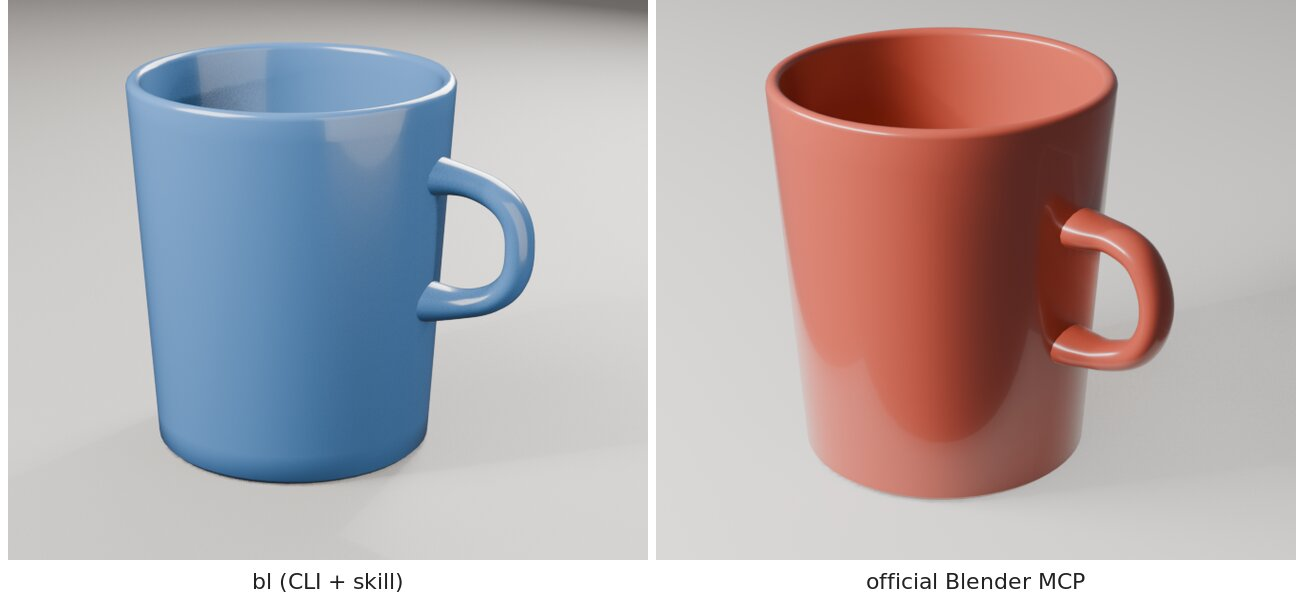
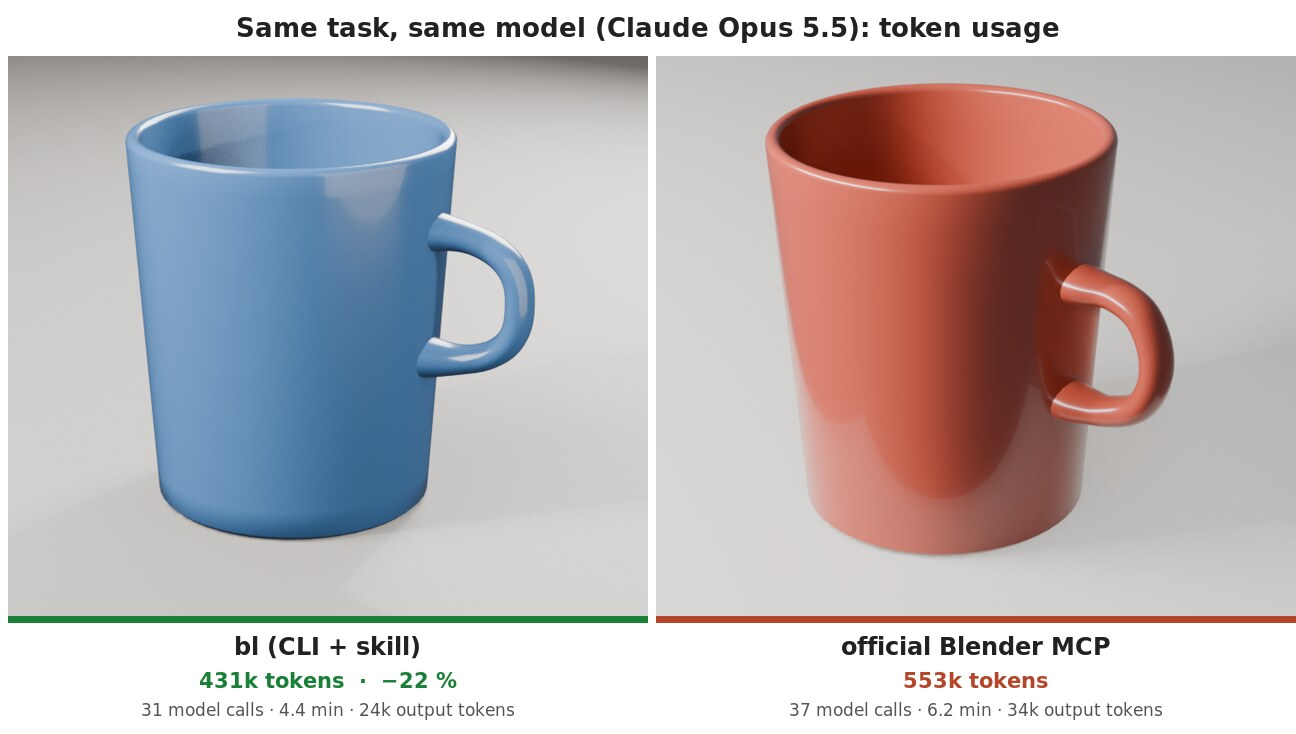
Comparison images with token and mesh-check overlays; exact qa warnings and mesh stats in the A/B write-up

diff --git a/docs/ab-test.md b/docs/ab-test.md
@@ -31,10 +31,11 @@ Each image is the agent's own final render or wireframe from its run, with the h
 | Output tokens | 41k | **24k** | 34k |
 | **Weighted tokens** | 750k | **431k** | 553k |
 | Images viewed by the agent | 23 | 15 | 11 |
-| `bl qa --profile render` | pass, 1 warning (no UVs) | **pass, 0 warnings** | pass, 3 warnings: 2 zero-length edges and 4 duplicate vertices at the boolean seam, missed by the agent's own checks |
+| `bl qa --profile render` | pass, 1 warning (no UVs) | **pass, 0 warnings** | pass, 3 warnings: no UV map, 2 zero-length edges and 4 duplicate vertices at the boolean seam (the last two missed by the agent's own checks) |
+| Final mesh: tris / n-gons | – | 4,654 / 26 | 5,876 / 27 |
 | RAM, Blender side (mean / peak) | 533 / 659 MB | – | 1176 / 1466 MB |
 
-All three mugs meet the dimensions within about 0.2 mm and look comparable. None of them has a true fillet where the handle meets the wall.
+All three mugs meet the dimensions within about 0.2 mm and look comparable. None of them has a true fillet where the handle meets the wall, and both A2 and B have about 26 n-gons along the boolean seam of the handle.
 
 ## What the numbers say
 

diff --git a/README.md b/README.md
@@ -16,7 +16,7 @@ We gave Claude Opus 5.5 the same modeling task (a coffee mug with exact dimensio
 | Wall time | **4.4 min** | 6.2 min |
 | Weighted tokens | **431k** (−22 %) | 553k |
 | Output tokens | **24k** | 34k |
-| Final mesh check (`bl qa --profile render`) | **0 warnings** | 3 warnings (zero-length edges, duplicate vertices) |
+| Final mesh check (`bl qa --profile render`) | **0 warnings** | 3 warnings (no UVs, zero-length edges, duplicate vertices) |
 | RAM, Blender side (mean) | **~0.5 GB** (headless) | ~1.2 GB (GUI + X server) |
 
 ![Wireframes: bl (left), official MCP (right)](docs/images/ab-wireframe.jpg)
